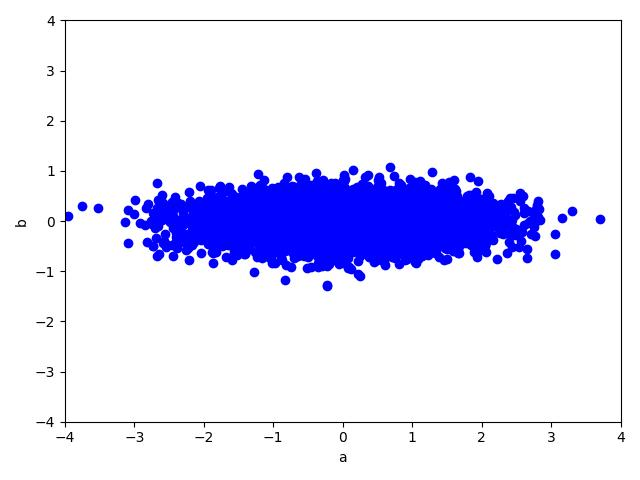
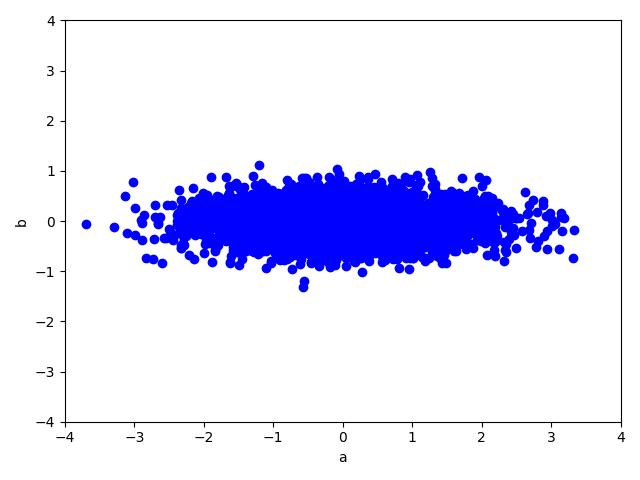
plotted graph at different rotation and variance

Changed region(s): [[0.0938, 0.3438, 0.9688, 0.625]]

diff --git a/Q1_TODO.py b/Q1_TODO.py
@@ -20,9 +20,11 @@ def leastSquares(X, Y):
     # closed form solution by matrix-vector representations only
     # W = (X^T . X)^-1 (X^T . Y)
    
+    #Right term
     X_transpose = np.transpose(X)
     X_transpose_dot_Y = np.dot(X_transpose,Y)
-
+    
+    #left term
     X_transpose_dot_X = np.dot(X_transpose, X)
     X_transpose_dot_X_inv = np.linalg.inv(X_transpose_dot_X)
 
@@ -101,11 +103,13 @@ def generate_data(M, var1, var2, degree):
 # Settings
 M = 5000
 var1 = 1
-var2_list = [0.1, 0.3, 0.8]
+var2 = 0.1
+#var2_list = [0.1, 0.3, 0.8]
 degree = 45
+degree_list = [30,150,120]
 
-for var2 in var2_list:
-
+#for var2 in var2_list:
+for degree in degree_list:
 
     data = generate_data(M, var1, var2, degree)
 
@@ -121,7 +125,7 @@ for var2 in var2_list:
     w_x2y = leastSquares(Input_aug, Output)  # (d+1) x 1, where d=1
 
     print('Predicting y from x (x2y): weight=' +
-        str(w_x2y[0, 0]), 'bias = ', str(w_x2y[1, 0]))
+    str(w_x2y[0, 0]), 'bias = ', str(w_x2y[1, 0]))
 
     # # Training the linear regression model predicting x from y (y2x)
 
@@ -132,7 +136,7 @@ for var2 in var2_list:
 
     w_y2x = leastSquares(Input_aug, Output)  # (d+1) x 1, where d=1
     print('Predicting x from y (y2x): weight=' +
-        str(w_y2x[0, 0]), 'bias = ', str(w_y2x[1, 0]))
+    str(w_y2x[0, 0]), 'bias = ', str(w_y2x[1, 0]))
 
 
     # plot the data points
